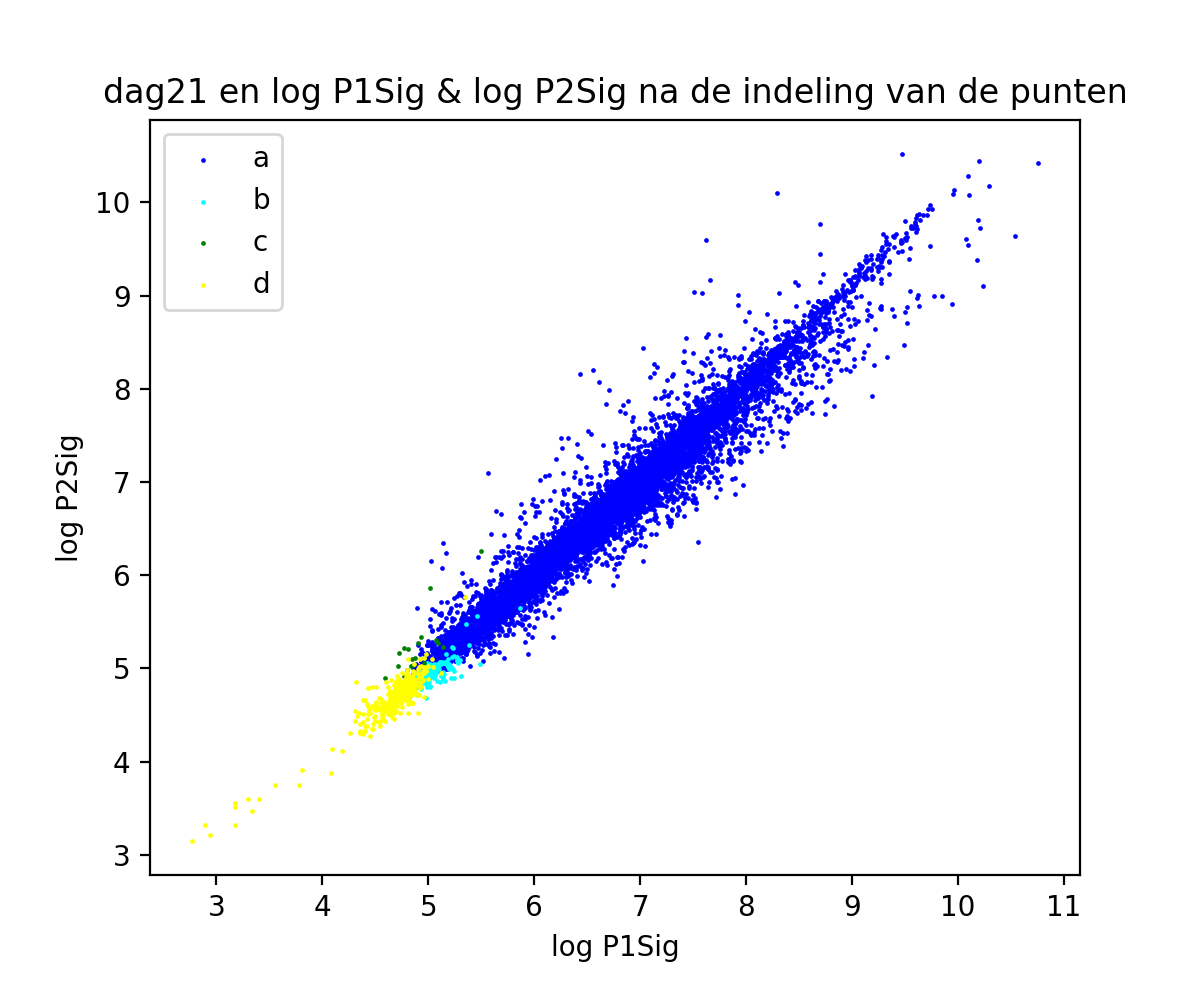
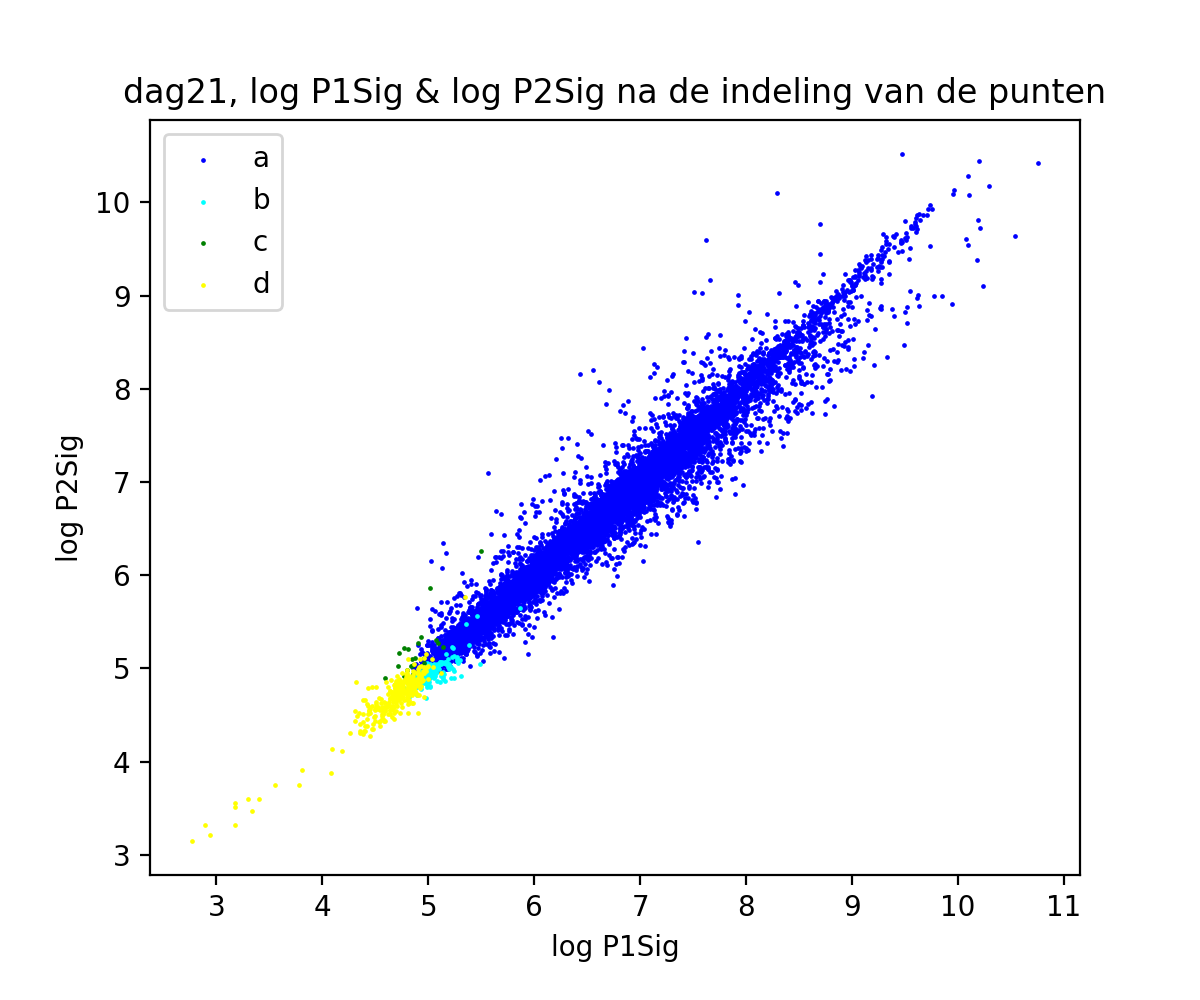
Console update processing

Changed region(s): [[0.0925, 0.062, 0.925, 0.124]]

diff --git a/preprocessing.py b/preprocessing.py
@@ -61,7 +61,7 @@ def Uitplotten(df, data_bestand, wanneer='voor een correctie.',
             groep.plot(kind='scatter', x=x, y=y,
                        c=kleuren[klasse], ax=ax, s=0.5)
         plt.legend(['a', 'b', 'c', 'd'])
-        ax.set_title(data_bestand + ' en ' +
+        ax.set_title(data_bestand + ', ' +
                      x + ' & ' + y + ' na de indeling van de punten')
 
     else:
@@ -216,9 +216,9 @@ def Spotfilter(df, ogrens=0.5, bgrens=1.5):
     spotgem = df_filt['P1Cov'].mean()
 
     # Print hoeveel van de punten boven en onder de grens liggen
-    print('Er liggen zoveel punten onder de ondergrens: ' +
+    print('De hoeveelheid punten onder de ondergrens: ' +
           str(len(df_filt[df_filt['P1Cov'] < ogrens * spotgem].index)))
-    print('Er liggen zoveel punten boven de bovengrens: ' +
+    print('De hoeveelheid punten boven de bovengrens: ' +
           str(len(df_filt[df_filt['P1Cov'] > bgrens * spotgem].index)))
 
     # Als waarde P1Cov niet voldoet aan conditie wordt spot verwijderd
@@ -265,8 +265,8 @@ def Rel_expressie_punten(df, wanneer, punten,
 
     Regel: Geprinte tekstregel.
 
-    Formaat: 'Het aantal genen boven of gelijk aan de absolute waarde van '
-    + parameter waarde + ' op ' + parameter wanneer + ' is ' + aantal spots
+    Formaat: 'De hoeveelheid genen ≥ '|
+    + parameter waarde + '| op ' + parameter wanneer + ' is ' + aantal spots
     met een relatieve expressiewaarde boven vastgestelde waarde'.
     """
     # Maak een kopie zodat je de ingevoerde dataframe niet veranderd.
@@ -300,8 +300,8 @@ def Rel_expressie_punten(df, wanneer, punten,
 
     # print out hoeveel absolute relatieve expressiewaarden
     # groter of gelijk zijn aan de gekozen waarde.
-    print('Het aantal genen boven of gelijk aan de absolute waarde van ' +
-          str(waarde) + ' op ' + wanneer + ' is ' + str(hoeveel), '\n')
+    print('De hoeveelheid genen ≥ |' +
+          str(waarde) + '| op ' + wanneer + ' is ' + str(hoeveel), '\n')
 
     return df_re
 
